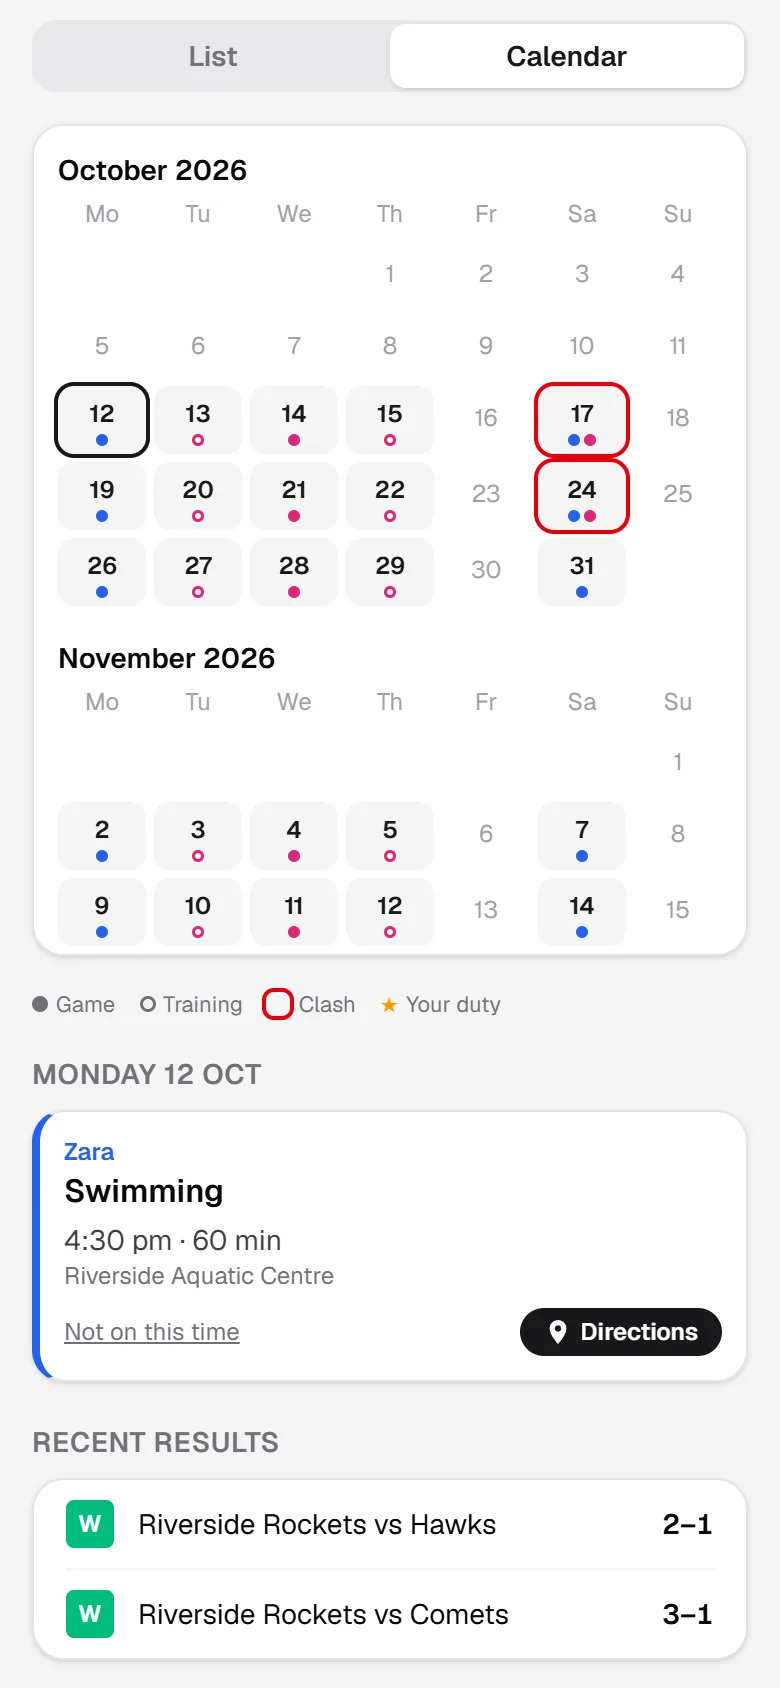
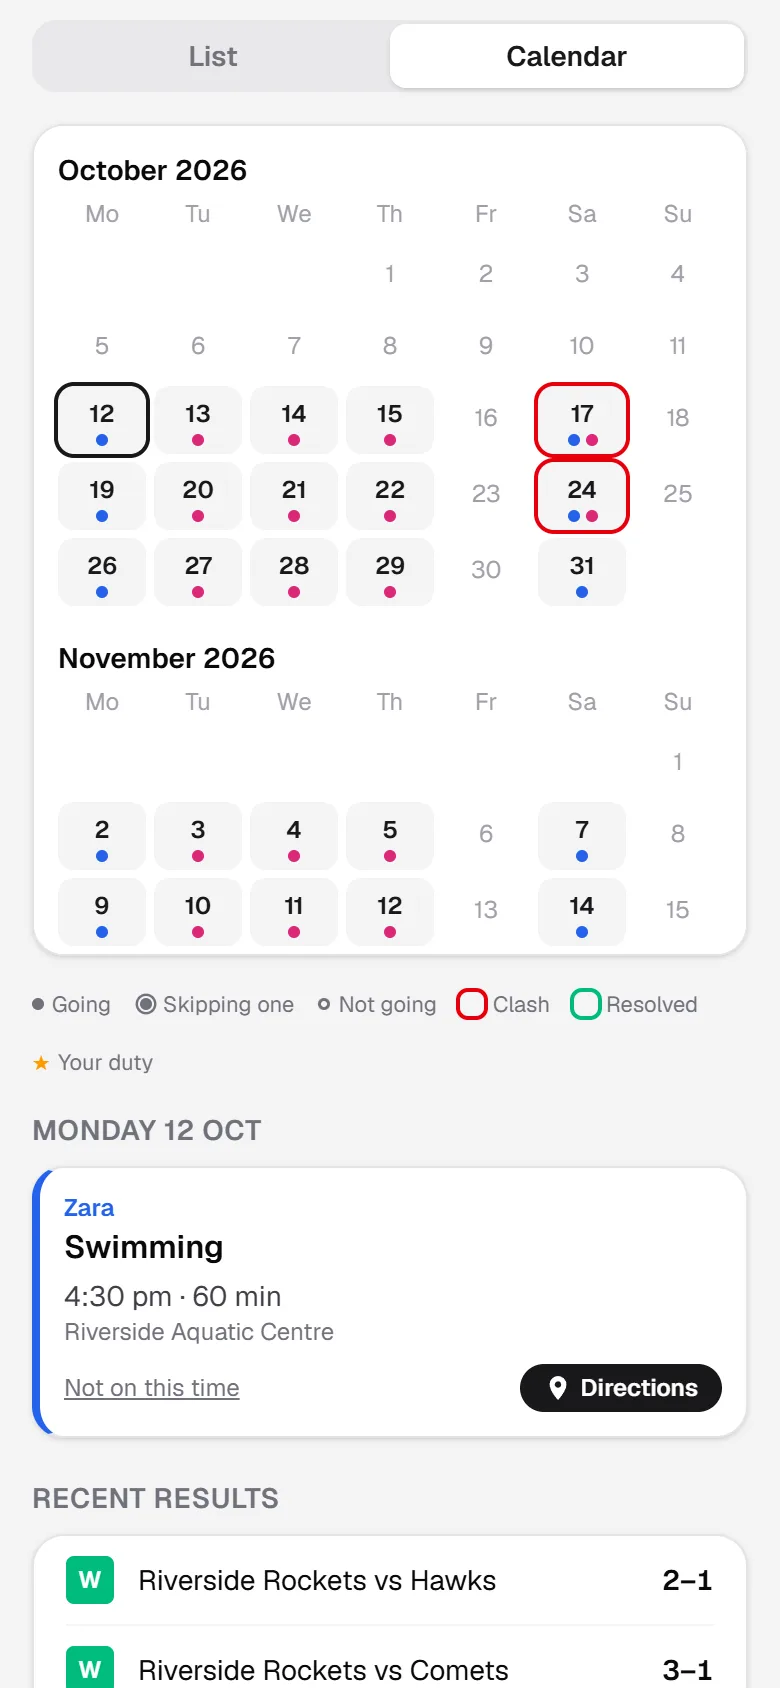
Calendar: one marker per person per day in their colour (dot = going, dot with a ring = skipping one, ring = not going), up to six people, all in the key

diff --git a/src/app/me/MyPlayerViews.tsx b/src/app/me/MyPlayerViews.tsx
@@ -10,7 +10,9 @@ export type CalendarDay = {
   resolved?: boolean; // a clash that day, and it's been solved (who's taking whom, or not going)
   training: boolean; // only training that day
   duty: boolean; // the family is on a duty that day
-  kids: { key: string; training: boolean }[]; // a dot per child (hollow = training)
+  // One marker per person, in their colour: going to everything (dot), skipping
+  // at least one thing (dot with a ring), or not going to anything (ring only).
+  kids: { key: string; state: "going" | "some" | "none" }[];
   node: ReactNode; // that day's cards
 };
 
@@ -70,10 +72,13 @@ export function MyPlayerViews({ list, days }: { list: ReactNode; days: CalendarD
           <Months days={days} selected={selected} onPick={pick} />
           <div className="flex flex-wrap gap-3 text-[11px] text-zinc-500">
             <span className="flex items-center gap-1">
-              <span className="size-2 rounded-full bg-zinc-500" /> Game
+              <Marker state="going" /> Going
             </span>
             <span className="flex items-center gap-1">
-              <span className="size-2 rounded-full" style={{ boxShadow: "inset 0 0 0 1.5px #71717a" }} /> Training
+              <Marker state="some" /> Skipping one
+            </span>
+            <span className="flex items-center gap-1">
+              <Marker state="none" /> Not going
             </span>
             <span className="flex items-center gap-1">
               <span className="size-3 rounded ring-2 ring-red-600" /> Clash
@@ -137,18 +142,13 @@ function Months({ days, selected, onPick }: { days: CalendarDay[]; selected: str
                     key={date}
                     type="button"
                     onClick={() => onPick(date)}
-                    className={`relative rounded-lg bg-zinc-100 pb-3 pt-1.5 font-semibold text-zinc-900 ${day.clash ? "ring-2 ring-red-600" : day.resolved ? "ring-2 ring-emerald-500" : date === selected ? "ring-2 ring-zinc-900" : ""}`}
+                    className={`relative rounded-lg bg-zinc-100 ${day.kids.length > 3 ? "pb-5" : "pb-3"} pt-1.5 font-semibold text-zinc-900 ${day.clash ? "ring-2 ring-red-600" : day.resolved ? "ring-2 ring-emerald-500" : date === selected ? "ring-2 ring-zinc-900" : ""}`}
                   >
                     {i + 1}
                     {day.duty && <span className="absolute left-0.5 top-0 text-[9px] text-amber-500">★</span>}
-                    <span className="absolute inset-x-0 bottom-1 flex justify-center gap-0.5">
-                      {day.kids.slice(0, 4).map((k, n) => (
-                        <span
-                          key={n}
-                          data-kid={k.key}
-                          className="size-1.5 rounded-full"
-                          style={k.training ? { boxShadow: "inset 0 0 0 1.5px var(--kid, #71717a)" } : { background: "var(--kid, #71717a)" }}
-                        />
+                    <span className="absolute inset-x-0 bottom-1 mx-auto flex max-w-[2.6rem] flex-wrap justify-center gap-[3px]">
+                      {day.kids.slice(0, 6).map((k, n) => (
+                        <Marker key={n} kid={k.key} state={k.state} />
                       ))}
                     </span>
                   </button>
@@ -160,4 +160,16 @@ function Months({ days, selected, onPick }: { days: CalendarDay[]; selected: str
       })}
     </div>
   );
+}
+
+/** A person's marker on a calendar day, in their colour (grey in the key). */
+function Marker({ kid, state }: { kid?: string; state: "going" | "some" | "none" }) {
+  const c = kid ? "var(--kid, #71717a)" : "#71717a";
+  const style =
+    state === "going"
+      ? { background: c }
+      : state === "some"
+        ? { background: c, boxShadow: `0 0 0 1px #f4f4f5, 0 0 0 2.2px ${c}` }
+        : { boxShadow: `inset 0 0 0 1.5px ${c}` };
+  return <span data-kid={kid} className={`inline-block size-1.5 shrink-0 rounded-full ${state === "some" ? "mx-[2px]" : ""}`} style={style} />;
 }

diff --git a/src/app/me/page.tsx b/src/app/me/page.tsx
@@ -323,9 +323,7 @@ export default async function MyPlayerPage({ searchParams }: PageProps<"/me">) {
               resolved: entries.some((e) => (e.resolved?.length ?? 0) > 0),
               training: entries.every((e) => e.training),
               duty: entries.some((e) => (e.duties?.length ?? 0) > 0),
-              kids: [
-                ...new Map(entries.flatMap((e) => e.kids.map((k) => [kidKey(k.name), { key: kidKey(k.name), training: !!e.training }] as const))).values(),
-              ],
+              kids: dayMarkers(entries),
               node: (
                 <ul className="space-y-2">
                   {entries.map((e) => (
@@ -432,6 +430,23 @@ function editValues(a: Activity): ActivityInitial {
     url: a.source_url ?? "",
     filter: a.source_filter ?? "",
   };
+}
+
+/**
+ * One calendar marker per person that day: going to everything, skipping at
+ * least one thing (not going, a skipped activity, or a cancelled training),
+ * or not going to anything.
+ */
+function dayMarkers(entries: Entry[]): { key: string; state: "going" | "some" | "none" }[] {
+  const per = new Map<string, { going: boolean; off: boolean }>();
+  for (const e of entries) {
+    for (const k of e.kids) {
+      const off = k.status === "no" || !!e.activity?.cancelled || e.game.time === "Postponed";
+      const p = per.get(kidKey(k.name)) ?? { going: false, off: false };
+      per.set(kidKey(k.name), { going: p.going || !off, off: p.off || off });
+    }
+  }
+  return [...per.entries()].map(([key, p]) => ({ key, state: p.going && p.off ? "some" : p.going ? "going" : "none" }));
 }
 
 /** The clash solver on a card: Resolve clash (not going, or who's taking them), or who's taking them. */

diff --git a/src/components/Guide.tsx b/src/components/Guide.tsx
@@ -26,7 +26,7 @@ const PATHS: Path[] = [
       {
         image: "/guide/act-2-calendar.webp",
         title: "The month at a glance",
-        text: "Switch to Calendar to see the whole month: a dot for each game or training, in each person’s colour, and a red ring for a clash. Tap a day to see what’s on.",
+        text: "Switch to Calendar to see the whole month. Each person gets a dot in their colour: with a ring around it if they’re skipping something that day, or just a ring if they’re not going at all. A red ring around a day is a clash, green once it’s solved. Tap a day to see what’s on.",
       },
       {
         image: "/guide/act-5-clash.webp",
